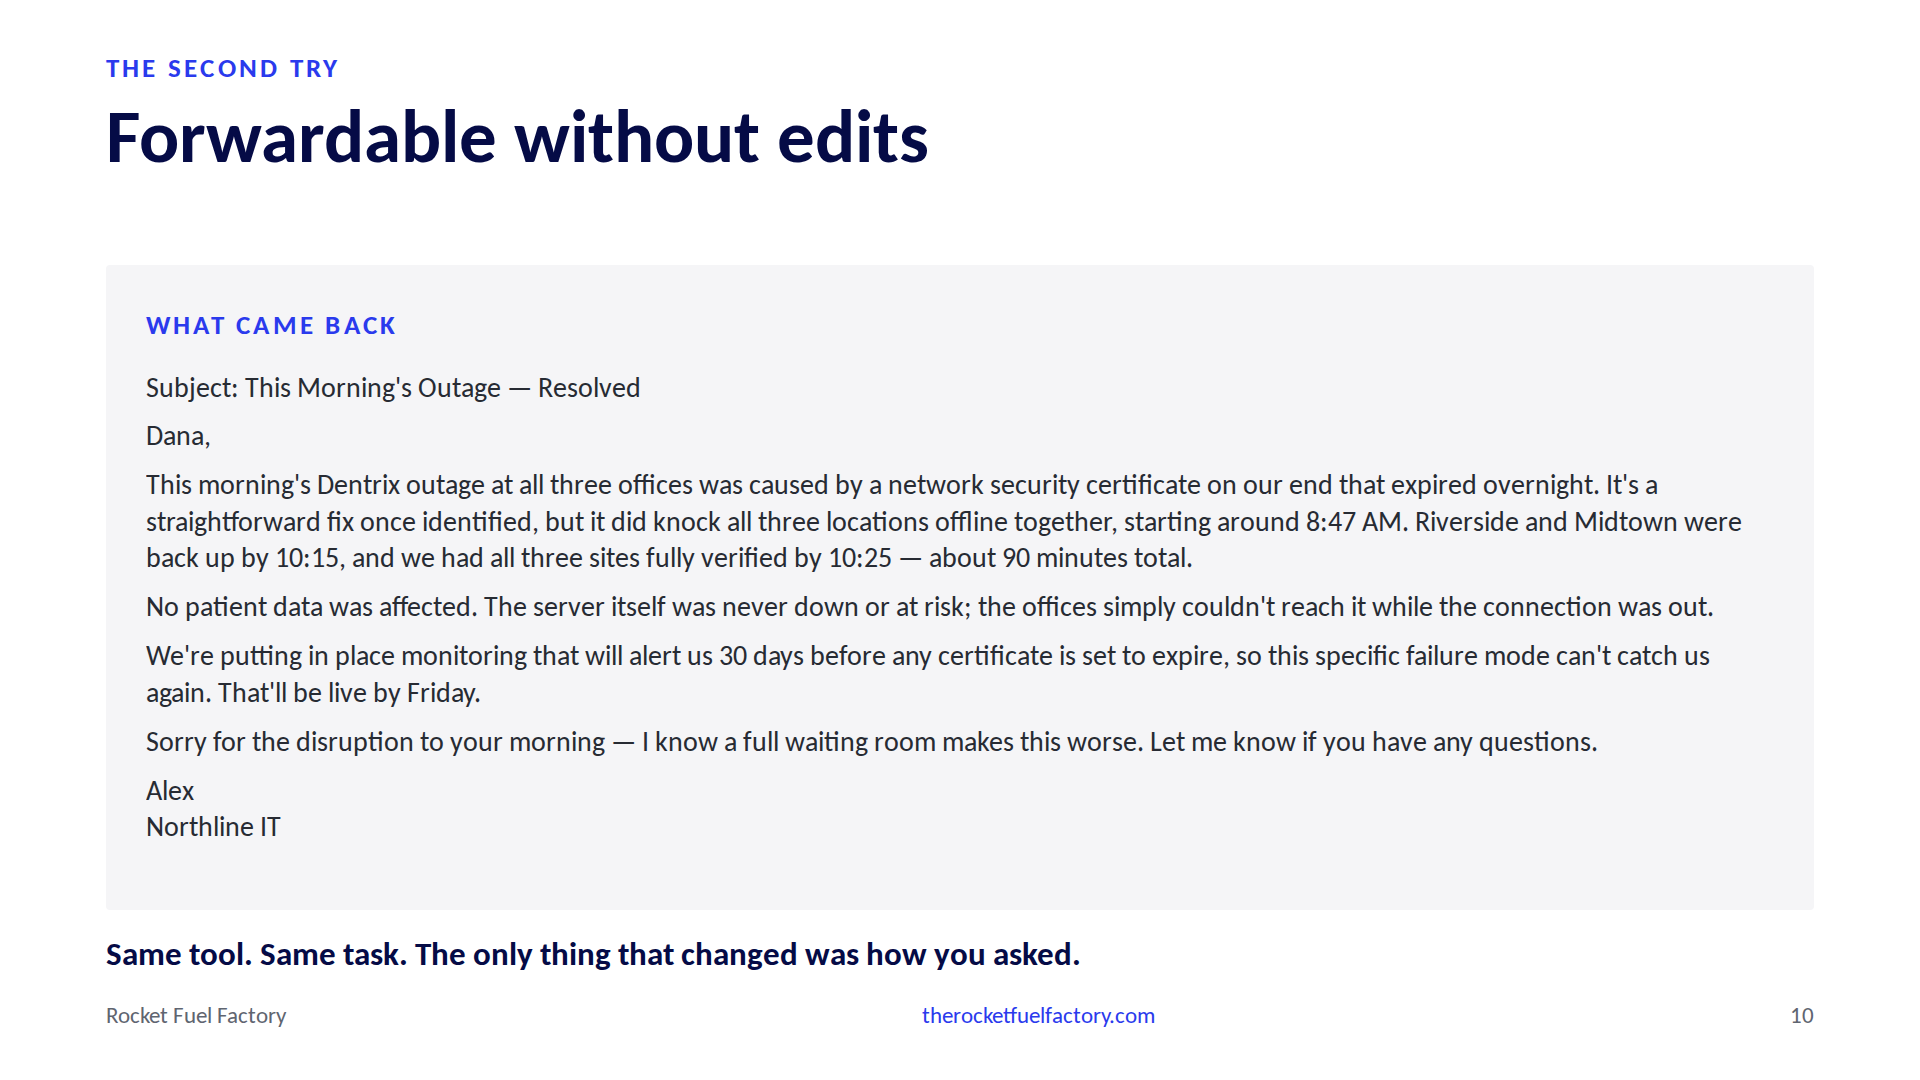
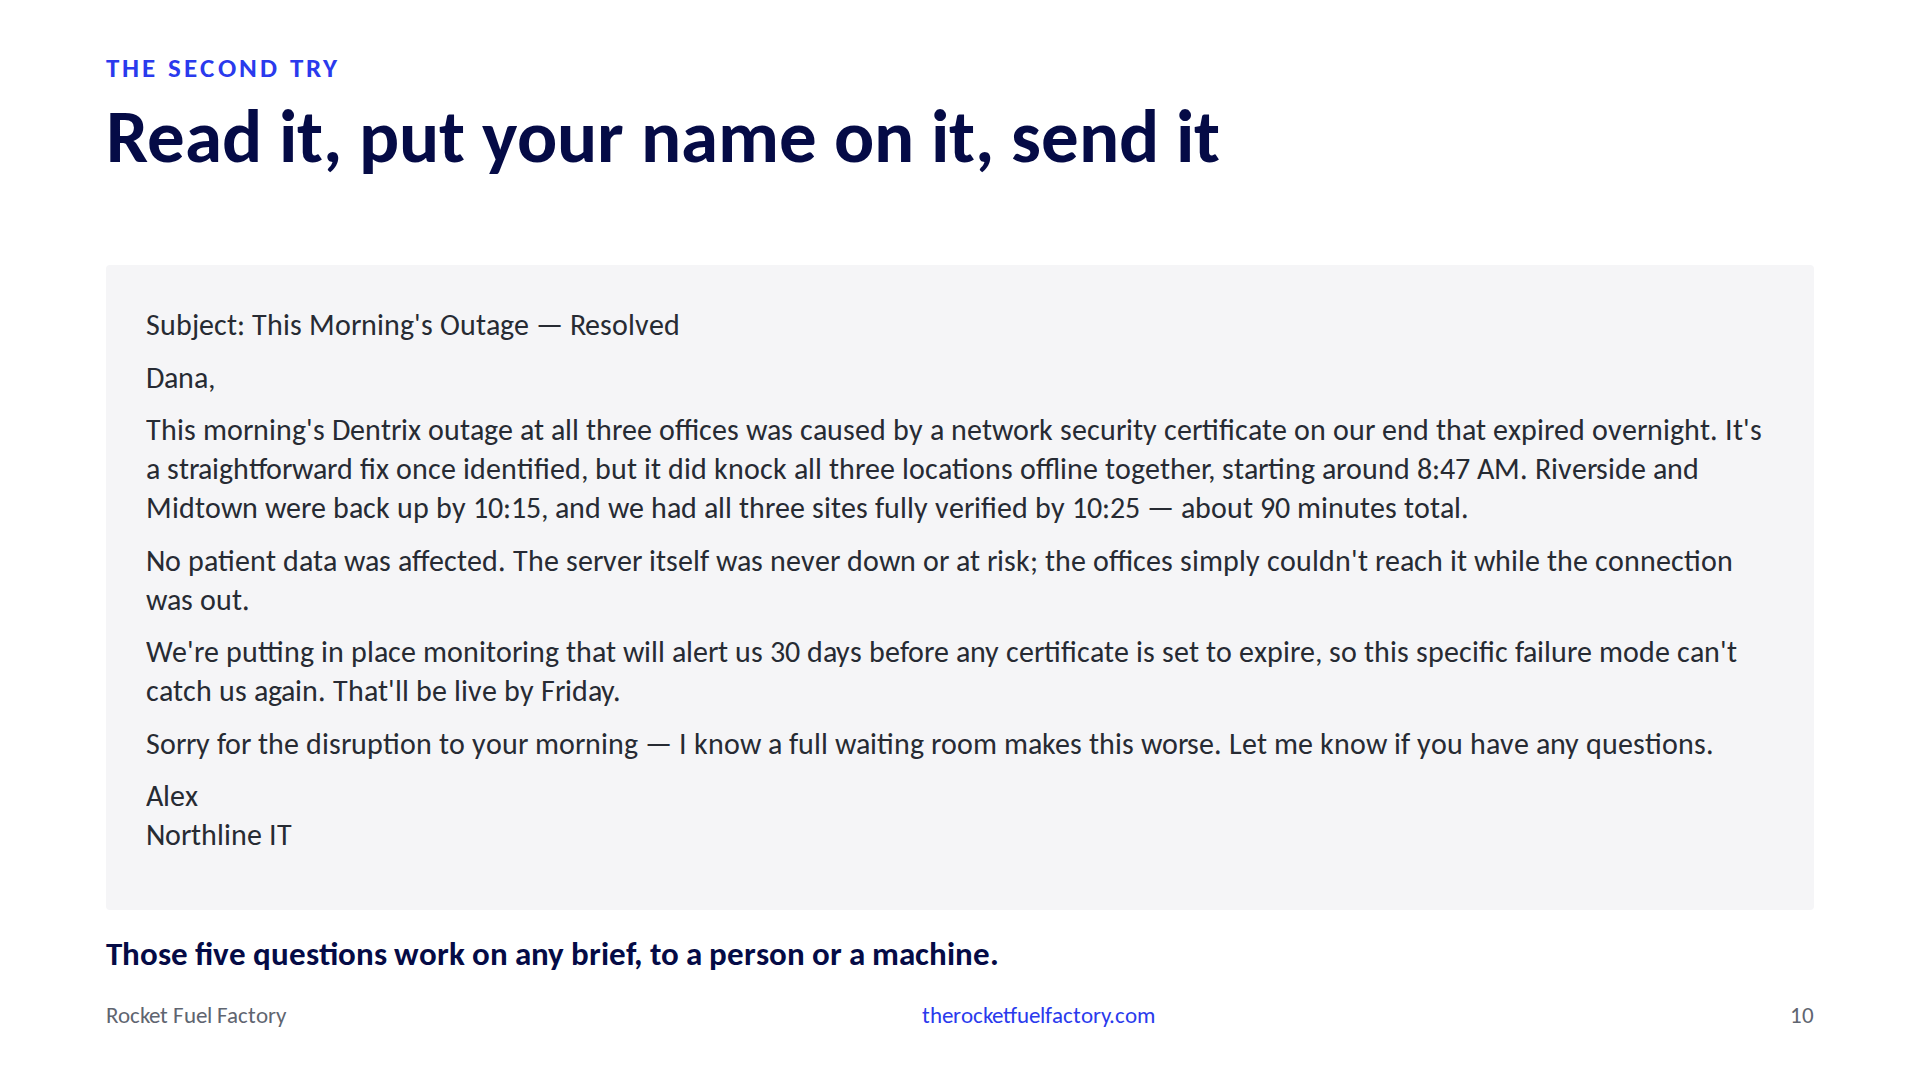
Slide 10: the send step on the slide; five-questions rule as footer; note as spoken words

Changed region(s): [[0.0625, 0.275, 0.9062, 0.7944], [0.0625, 0.0917, 0.6562, 0.1528], [0.0625, 0.8556, 0.5625, 0.9167]]

diff --git a/src/data/notes.js b/src/data/notes.js
@@ -12,7 +12,7 @@ export const notes = {
   'demo-weak': 'Target 4:40. This is how most of us do it. One line, and paste the ticket under it. The ticket has everything a tech would need: the full waiting room, the FortiGate, Phase 1, DigiCert, and that line near the bottom about the Q2 review where nobody approved the renewal. My best tech reads that and knows what to leave out. The AI has no idea who Dana is.',
   'demo-weak-output': 'Target 5:30. Dana opens this. The first thing is that it looks right. Ticket number, headers, the shape of a real incident report. Then the blue line. That is the one sentence in that ticket I would never put in front of a client. It says we knew, and nobody acted on it. And it is now in an email Dana forwards to the dentist who owns the practice. I ran this three times. Two of the three had that line. I never told it that line was off limits. It had no way to know.',
   'demo-brief': 'Target 8:10. Same ticket, pasted underneath again. This is what went above it this time. Everything in blue is an answer to one of the five questions. Who Dana is, and that she forwards whatever we send to Dr. Patel, the dentist who owns the practice. Do not quote the ticket, and she does not need to hear that we flagged this cert in the spring and nobody approved the renewal. No patient data was touched, because that is what she asked on the phone. And what on top of it actually means: monitoring in place by Friday. That is the rule written down. This is delegating.',
-  'demo-strong': 'Target 9:40. Loud punchline: same tool, same task, the only thing that changed was how you asked. Under 150 words, Dr. Patel named, forwardable. Then the bridge, one breath, before the click. That is communication: hand over the judgment calls, not just the facts. Now take it to something bigger than an email. When you say we set up new users, what you have is a ticket with the facts. The judgment calls are in someone\'s head. You just saw what happens when you hand that to a machine. Click.',
+  'demo-strong': 'Target 9:20. Under 150 words. It names the dentist. Nothing in it that Dana should not see. Same tool, same ticket. The only thing we changed was what we told it. Now the part that matters. The machine never talked to Dana. I read this, I put my name on it, and I sent it. That is the job it is good for: the draft. The send is mine. And those five questions are not about email. Who is reading this, what does the vague phrase mean, which facts are liabilities, what tone, what are we actually asking for. That works on a person too. When we say we set up new users, what we have is a ticket with the facts, and the rules are in someone\'s head. You just saw what happens when we hand that to something that cannot guess.',
   'demo-ask': 'Target 6:30. Here is what worked. We did not type try again, and we did not fix the email ourselves. We asked it what we should have told it in the first place. It gave us five things. Who is actually reading this, and what is their relationship to the outage. What on top of it was supposed to mean. Whether the Q2 detail was a feature or a liability. What tone. Whether there was a business ask riding along. We knew the answer to every one of those before we typed a word. We just never wrote them down. And it owned the leak. It called the Q2 sentence the single riskiest line in the ticket, said it could read either as we caught this or as we knew and did nothing, and admitted it had made that call for us without asking. It knew it was guessing. It will tell you, if you ask. Try this tonight on the last answer that disappointed you.',
   'aharons-law': 'Target 10:40. SLOW. Say the law, credit Aharon, two full seconds of silence. Then: I have been quoting this for years and it means something different every time. Here is what it means today. Click.',
   'exists-means-said-out-loud': 'Target 11:10. The shop example, no AI in it. Title first, then the story. You say we have a process for when a client\'s employee leaves. It is a checklist, and it is Mike\'s. Mike is on vacation. Someone leaves, a tech covers it and follows the list. One line says cancel software licenses. He cancels Microsoft, because that is what software licenses means to him. A year later someone reconciles the bill and finds nine former employees still holding Adobe seats. Say Adobe and let the room groan, do not pile on. Nobody skipped a step. To Mike that line meant Microsoft, Adobe, and two more tools that client has, because Mike set them up. This is the email again: on top of it lived in your head, software licenses lived in Mike\'s, neither was ever said out loud. That is what the law means today. Now the card, and this is where the title of the talk lives. What did that cost you? A senior tech who cannot take a vacation, because the process is him. Every departure handled twice, once wrong by whoever covered, once right by the expensive person. Nine seats for a year, which is Dawn and Dave\'s margin talk with a number on it. And the hire you were about to make to cover Mike was not for the work. It was insurance against the fact that the definition of done lived in one person. Now the fix: one hour. Ask Mike which licenses. Write it down. After that anyone can run it, and so can an automation. That is more with less: not fewer people, fewer people needed to make a process safe. Bridge out: that is true of every process that lives in one person, and it is why most shops automate the wrong ones. Click.',

diff --git a/src/components/slides/010-DemoStrong.jsx b/src/components/slides/010-DemoStrong.jsx
@@ -5,13 +5,14 @@ export default function DemoStrong({ slideNumber }) {
   return (
     <PromptOutputSlide
       eyebrow="The second try"
-      title="Forwardable without edits"
+      title="Read it, put your name on it, send it"
       accent="blue"
       slideNumber={slideNumber}
       only="output"
+      outputLabel=""
       output={withoutTim(strongOutput)}
-      outputFontSize={28}
-      punchline="Same tool. Same task. The only thing that changed was how you asked."
+      outputFontSize={30}
+      punchline="Those five questions work on any brief, to a person or a machine."
     />
   )
 }

diff --git a/docs/OUTLINE.md b/docs/OUTLINE.md
@@ -44,7 +44,7 @@ Closing line: If you can't write the rule, you can't hire your way out of it eit
 7. What the client would have received (full-width output, whole, two columns). Ticket number in the subject. Incident-report headers. Placeholder sign-off. And in blue, the machine's own sentence to Dana: this certificate had actually been flagged for renewal in our Q2 review, and we're correcting the gap that let it lapse. The one line in the ticket you would never put in front of a client, now in an email she forwards to the practice owner. Reran it three times: disclosed twice, hidden once, you did not get a vote either way. Footer: it leaked that line in two of three runs, and you had no say in which. Note ends: I never told it that line was off limits. It had no way to know. Dr. Patel is not named until slide 9; here he is the dentist who owns the practice. No eyebrow or panel label; the email gets the room.
 8. Ask it how to ask better (prompt/output; eyebrow: how to get unstuck). The path beat. Tim's follow-up prompt verbatim; the model's five items verbatim: who is reading, what on top of it meant, whether the Q2 detail was a feature or a liability, tone, any business ask. Footer: every one of those is a rule you already had in your head. The model's admission about the leak (riskiest line in the ticket, a 50/50 call it made without asking) is paraphrased in the note as proof it knew it was guessing. Close: try this tonight on the last answer that disappointed you.
 9. The same ask, with the rules written down (full brief). Earned by the previous slide. Same ticket pasted underneath; these are the words that went above it, in prose: who Dana is and that she forwards to Dr. Patel; do not quote the ticket; the Q2 conversation is for me and the owner, not this email; no patient data touched because that is what she asked on the phone; what on top of it actually means, monitoring by Friday. This is delegating.
-10. Forwardable without edits (full output). Under 150 words, Dr. Patel named. Loud: same tool, same task, the only thing that changed was how you asked. Bridge to Aharon, spoken: that is communication, hand over the judgment calls, not just the facts. Now take it to something bigger than an email. When you say we set up new users, what you have is a ticket with the facts; the judgment calls are in someone's head. You just saw what happens when you hand that to a machine.
+10. Read it, put your name on it, send it (full output, no label). Under 150 words, Dr. Patel named. Footer: those five questions work on any brief, to a person or a machine. Note makes the send step explicit: the machine never talked to Dana, I read it, put my name on it, and sent it; the draft is the machine's job, the send is mine. Opus (13 Sep): the old title, forwardable without edits, made the machine the author of record and read as permission to auto-send; the client email stays because the leak only lands when an outsider reads it. Bridge to Aharon: the five questions work on a person too; when we say we set up new users, the facts are in a ticket and the rules are in someone's head.
 
 11. Aharon's first law (pull statement). SLOW. You can't automate a process that doesn't exist. Aharon Chernin, Rewst. The meaning here: exists means has been said out loud. The law is not about the shop with no process; it is about the shop that thinks it has one and actually has a person who knows what the owner meant. The first automation attempt is the first receiver that cannot nod and fill in the blanks, which is why it is worth doing even if it never ships. Nothing failed; you found out cheaply. Then click to the Mike example, which is where the meaning lands on a shop instead of a prompt.
 12. The list was followed. The process still didn't exist. (two-column, orange) The shop example, no AI in it. "We have a process for when a client's employee leaves." You have Mike. The list said "cancel software licenses." The covering tech canceled Microsoft; Mike meant Microsoft, Adobe, and the two tools you forgot. Found at the next license reconciliation: nine ex-employees holding Adobe seats for a year. Nobody skipped a step; the line was there, the meaning was not. Same failure as "on top of it": a phrase with a full definition in the writer's head and a smaller one in the reader's. Card, what it cost and what it costs to fix: a senior tech who cannot take vacation; every departure handled twice; one hour, ask Mike which licenses, write it down. This is where the title lives: the hire was insurance against a definition of done that lived in one person. Say it out loud and you do not need the insurance. More with less means fewer people needed to make a process safe, not fewer people. Bridge out: true of every process that lives in one person, and why most shops automate the wrong ones.
@@ -61,7 +61,6 @@ Closing line: If you can't write the rule, you can't hire your way out of it eit
 ## Lines to drop verbatim, once each
 
 - Whose vacation request do you dread approving?
-- Same tool. Same task. The only thing that changed was how you asked.
 - Aharon's first law: you can't automate a process that doesn't exist.
 - Automate to give time back to the customer. Not to hide from them.
 - You already run a probabilistic system. It's called a tech at 4pm on a Tuesday.
